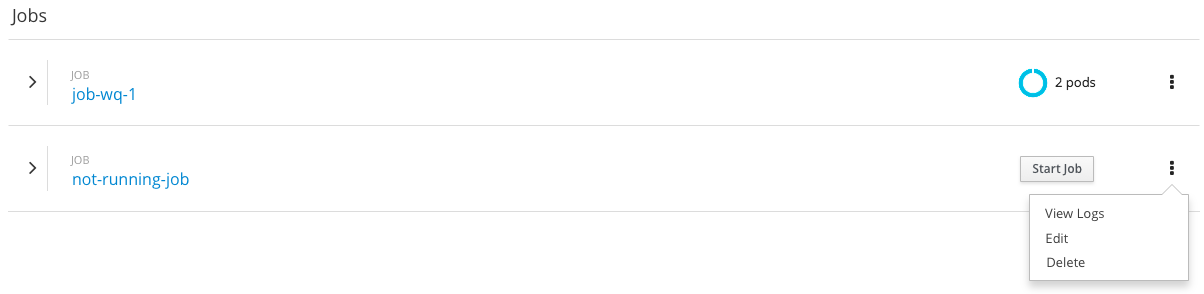
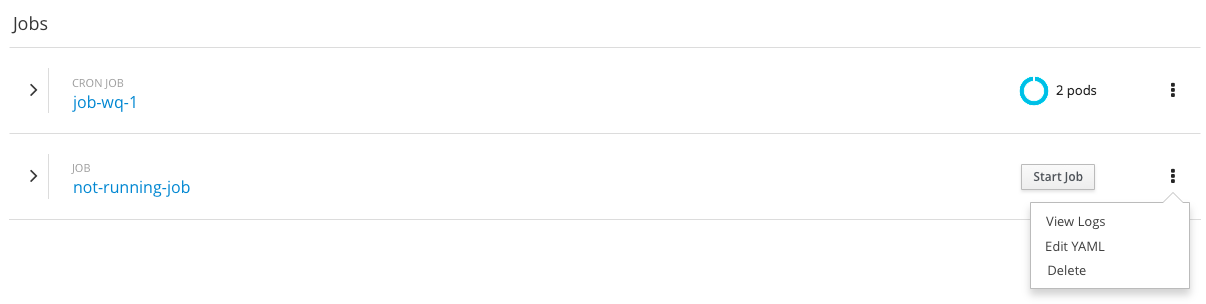
Updated based on feedback.

diff --git a/web-console/3-project-details/jobs.md b/web-console/3-project-details/jobs.md
@@ -7,16 +7,17 @@
 - This documentation uses "Job" to refer to both Jobs and Cron Jobs, except when Cron Jobs are called out specifically.
 
 ## Overview
-- Jobs and Cron Jobs would be listed under a "Jobs" heading in the Application and Resource views of the Overview.
+- Jobs and Cron Jobs would be listed under a "Jobs" heading in the list by Resource Type view of the Overview.
+- Jobs and Cron Jobs would be listed under Other Resources in the Application and Pipleine views, unless they are part of an application or pipeline. In that case, they would be grouped with the appropriate application or pipeline.  
 - The heading over individual Job names would specify if it is a Job or Cron Job.
-- Jobs (and Cron Jobs) that have an app label should be grouped with that application in the Application view.
+
 
 ### Collapsed State
 ![jobs overview collapsed](img/jobs-overview-collapsed.png)
 - Jobs are listed on the Overview page similarly to deployments.
 - Currently running jobs have the pod donut donut.
 - For Jobs that are not running, the pod donut is replaced by a "Start Job" button which would initiate a job run.
-- The kebab includes the following actions: "View Logs", "Edit" and "Delete".
+- The kebab includes the following actions: "View Logs", "Edit YAML" and "Delete".
 
 
 ### Expanded State
@@ -28,13 +29,14 @@
 - There is a separate section for "Job Runs"
 - Run number and status are shown on the left.
 - Status for completed jobs includes the duration.
-- Logs for a running pod are shown in this view similar to builds, with a link to the full logs.
+- Logs for a single running pod are shown in this view similar to builds, with a link to the full logs. If that pod finishes, but the job has other pods that need to run, logs for another pod should be shown.
 - Clicking on the run number takes the user to the details page for that job run.
 
 #### Not Running
 ![jobs overview expanded not running](img/jobs-overview-expanded-not-running.png)
-- For jobs that are not running, the pod donut is replaced by an action button to "Start Job"
-- The last N completed pods should be shown in the Job Runs area.
+- For jobs that are not running, the pod donut is replaced by an action button to "Start Job".
+- When the user activates the "Start Job" button, that button should be immediately replaced by an indication that the job is running and what its status is, for example a blank pod donut. 
+- The last completed run should be shown in the Job Runs area.
 
 #### Cron Jobs
 ![cron jobs overview expanded not running](img/cron-job-expanded.png)
